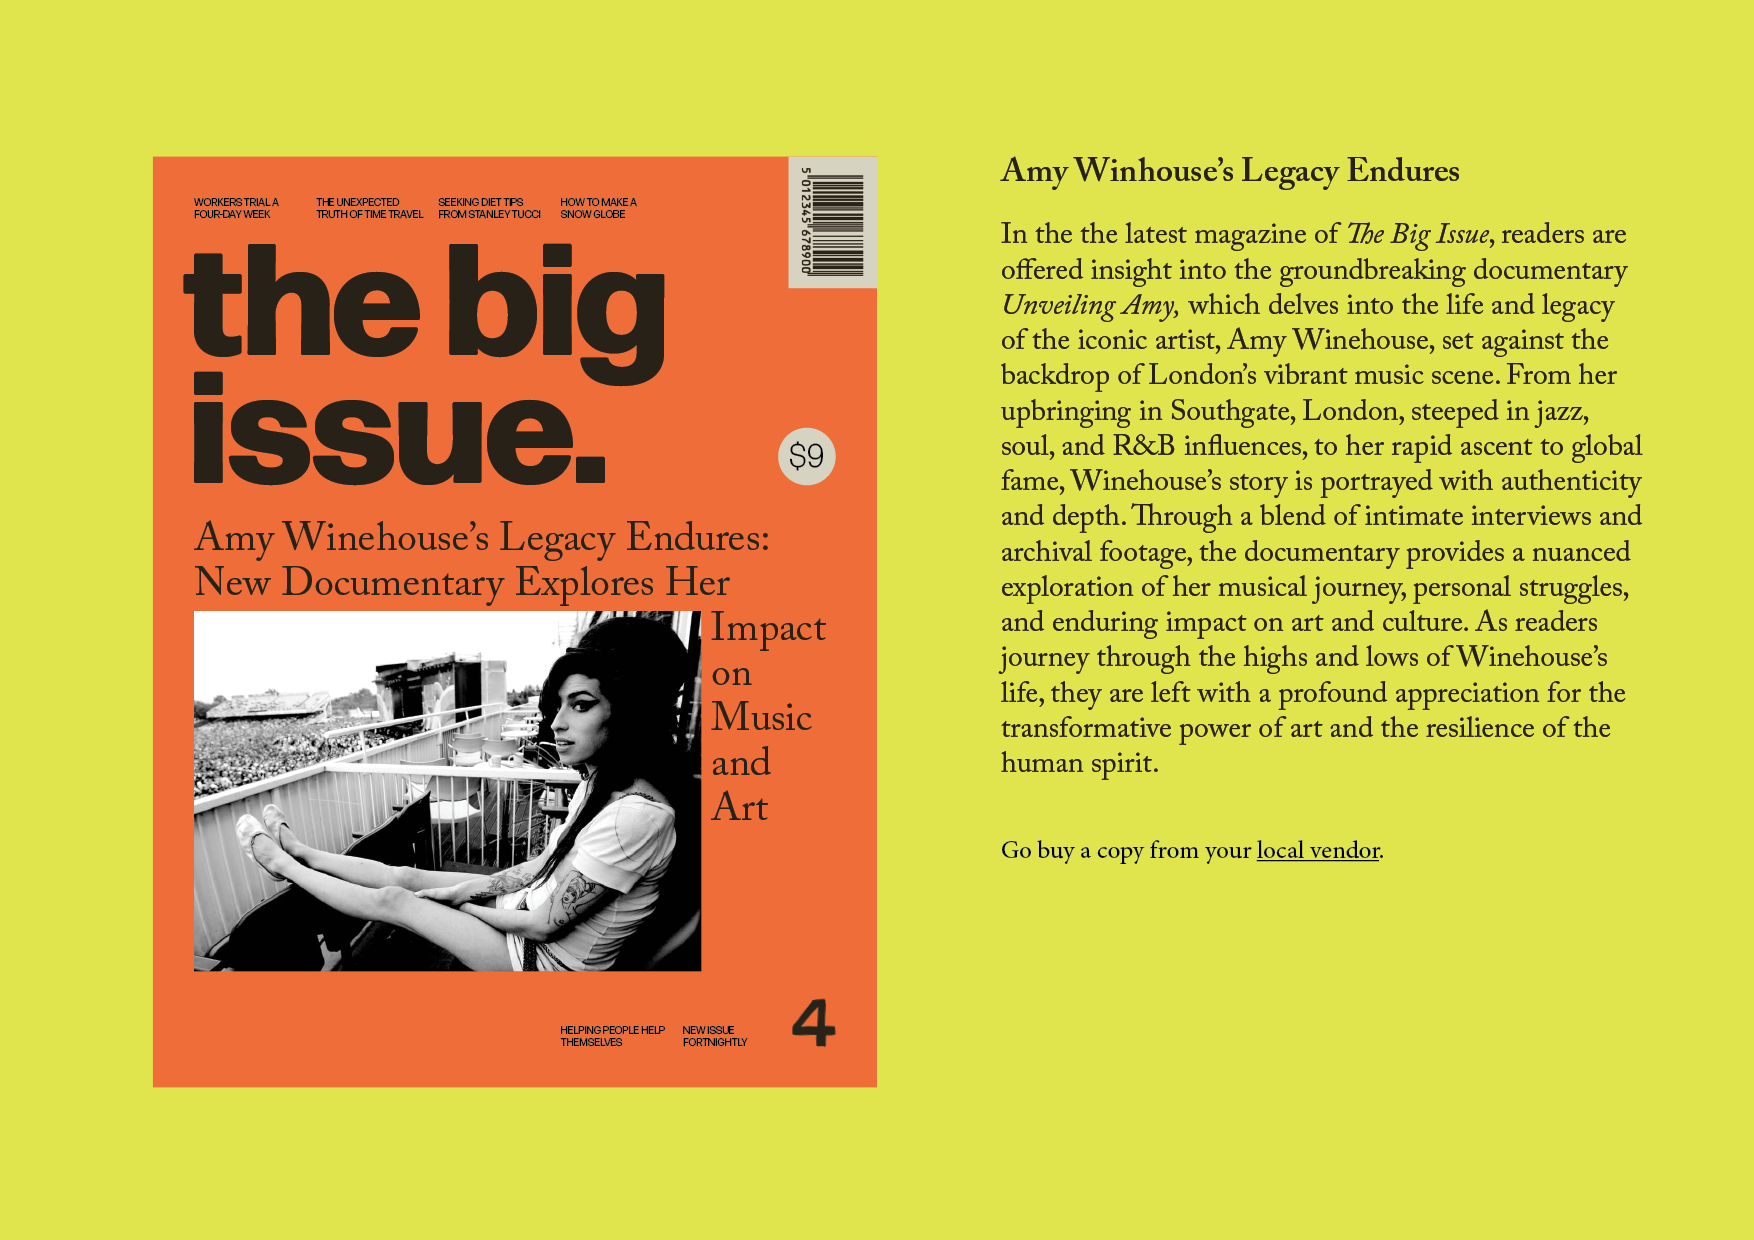
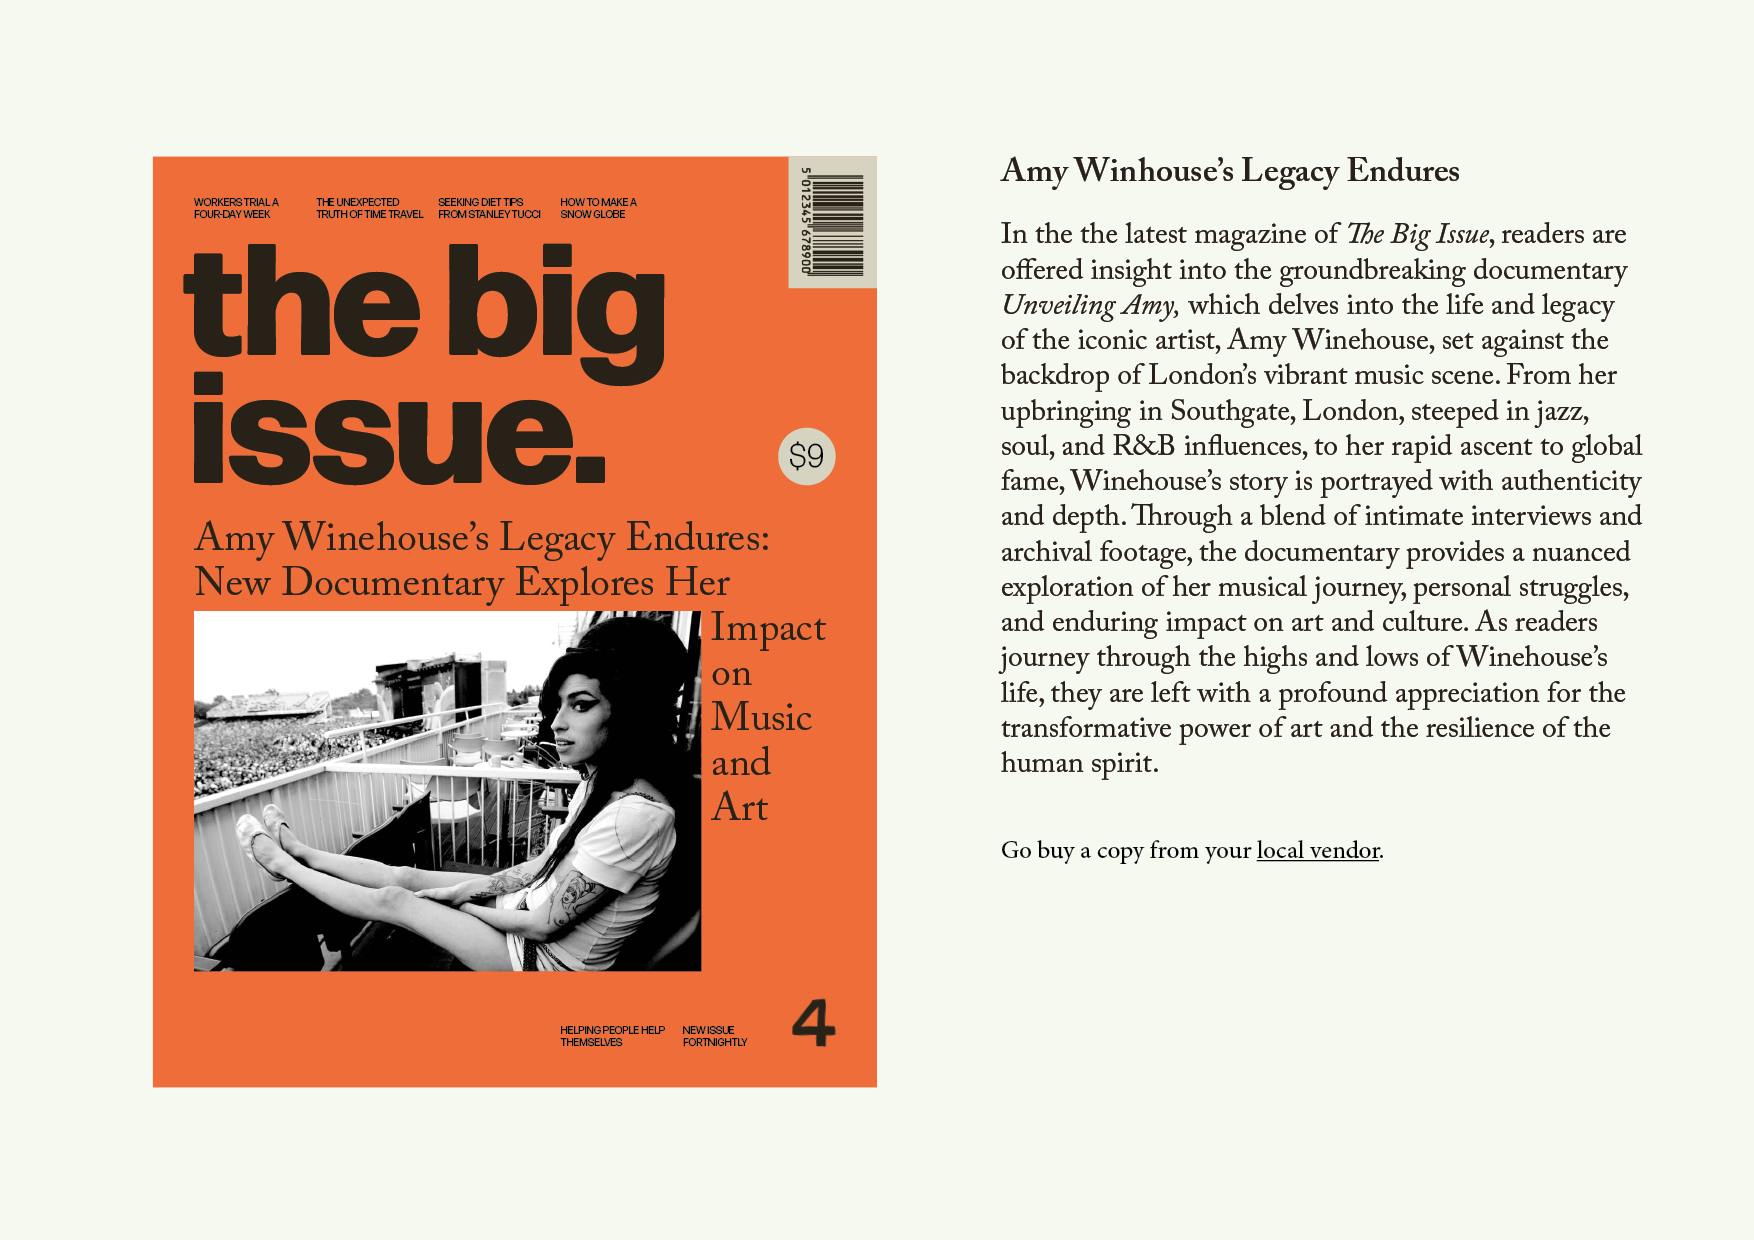
Add files via upload

diff --git a/index.html b/index.html
@@ -4,14 +4,14 @@
 <meta charset="UTF-8">
 <meta name="viewport" content="width=device-width, initial-scale=1.0">
 <title>The Big Issue</title>
-<link rel="icon" type="text/css" href="Favicon/TBIFavicon.png">
+<link rel="icon" type="text/css" href="Favicon/TBIFaviconWhite.png">
 
 
 <style>
    
    /* Style to change background color */
     html, body {
-        background-color: rgb(138, 183, 226);
+        background-color: rgb(245,250,240);
         margin: 0;
         padding-bottom:0;
         cursor:url("Cursor/Circle.png"), auto;
@@ -91,10 +91,10 @@
     /* Style for the large square button */
     .large-button {
         width: 100%; /* Set a percentage width for the buttons */
-        background-color: rgb(115, 193, 105); /* Initial background color */
+        background-color: rgb(245,250,240); /* Initial background color */
         color: rgb(40, 34, 24); /* Text color */
         text-align: center; /* Center-align text */
-        padding: 5.265% 0; /* Add padding to the button */
+        padding: 5.32% 0; /* Add padding to the button */
         transition: background-color 0.9s; /* Smooth transition for background color change */
         box-sizing: border-box; /* Include padding in the width calculation */
         border-top: 0.036em solid rgb(40, 34, 24); /* Black border line at the top */
@@ -106,16 +106,16 @@
 
     /* Change button color on hover */
     .large-button:hover {
-        background-color: rgb(240, 109, 57); /* New background color on hover */
+        background-color: rgb(138, 183, 226); /* New background color on hover */
     }
 
     /* Style for the second large square button */
     .large-button2 {
         width: 100%; /* Set a percentage width for the buttons */
-        background-color: rgb(115, 193, 105); /* Initial background color */
+        background-color: rgb(245,250,240); /* Initial background color */
         color: rgb(40, 34, 24); /* Text color */
         text-align: center; /* Center-align text */
-        padding: 5.265% 0; /* Add padding to the button */
+        padding: 5.32% 0; /* Add padding to the button */
         transition: background-color 0.9s; /* Smooth transition for background color change */
         box-sizing: border-box; /* Include padding in the width calculation */
         border-bottom: 0.036em solid rgb(40, 34, 24); /* Black border line at the top */;
@@ -126,16 +126,16 @@
 
     /* Change button color on hover */
     .large-button2:hover {
-        background-color: rgb(240, 109, 57); /* New background color on hover */
+        background-color: rgb(225, 229, 77); /* New background color on hover */
     }
 
     /* Style for the large square button */
     .large-button3 {
         width: 100%; /* Set a percentage width for the buttons */
-        background-color: rgb(115, 193, 105); /* Initial background color */
+        background-color: rgb(245,250,240); /* Initial background color */
         color: rgb(40, 34, 24); /* Text color */
         text-align: center; /* Center-align text */
-        padding: 5.265% 0; /* Add padding to the button */
+        padding: 5.32% 0; /* Add padding to the button */
         transition: background-color 0.9s; /* Smooth transition for background color change */
         box-sizing: border-box; /* Include padding in the width calculation */
         border-bottom: 0.036em solid rgb(40, 34, 24); /* Black border line at the top */
@@ -146,16 +146,16 @@
 
     /* Change button color on hover */
     .large-button3:hover {
-        background-color: rgb(240, 109, 57); /* New background color on hover */
+        background-color: rgb(115, 193, 105); /* New background color on hover */
     }
 
    /* Style for the large square button */
    .large-button4 {
         width: 100%; /* Set a percentage width for the buttons */
-        background-color: rgb(115, 193, 105); /* Initial background color */
+        background-color: rgb(245,250,240); /* Initial background color */
         color: rgb(40, 34, 24); /* Text color */
         text-align: center; /* Center-align text */
-        padding: 5.265% 0; /* Add padding to the button */
+        padding: 5.32% 0; /* Add padding to the button */
         transition: background-color 0.9s; /* Smooth transition for background color change */
         box-sizing: border-box; /* Include padding in the width calculation */
         border-bottom: 0.036em solid rgb(40, 34, 24); /* Black border line at the top */

diff --git a/contribute.html b/contribute.html
@@ -4,14 +4,14 @@
 <meta charset="UTF-8">
 <meta name="viewport" content="width=device-width, initial-scale=1.0">
 <title>Contribute</title>
-<link rel="icon" type="text/css" href="Favicon/TBIFaviconOrange.png">
+<link rel="icon" type="text/css" href="Favicon/TBIFaviconWhite.png">
 
 
 <style>
    
    /* Style to change background color */
     html, body {
-        background-color: rgb(240, 109, 57);
+        background-color: rgb(245,250,240);
         margin: 0;
         padding-bottom:0;
         cursor:url("Cursor/Circle.png"), auto;

diff --git a/community.html b/community.html
@@ -4,14 +4,14 @@
 <meta charset="UTF-8">
 <meta name="viewport" content="width=device-width, initial-scale=1.0">
 <title>Community</title>
-<link rel="icon" type="text/css" href="Favicon/TBIFaviconOrange.png">
+<link rel="icon" type="text/css" href="Favicon/TBIFaviconWhite.png">
 
 
 <style>
    
    /* Style to change background color */
     html, body {
-        background-color: rgb(240, 109, 57);
+        background-color: rgb(245,250,240);
         margin: 0;
         padding-bottom:0;
         cursor:url("Cursor/Circle.png"), auto;

diff --git a/programs.html b/programs.html
@@ -4,14 +4,14 @@
 <meta charset="UTF-8">
 <meta name="viewport" content="width=device-width, initial-scale=1.0">
 <title>Magazines</title>
-<link rel="icon" type="text/css" href="Favicon/TBIFaviconOrange.png">
+<link rel="icon" type="text/css" href="Favicon/TBIFaviconWhite.png">
 
 
 <style>
    
    /* Style to change background color */
     html, body {
-        background-color: rgb(240, 109, 57);
+        background-color: rgb(245,250,240);
         margin: 0;
         padding-bottom:0;
         cursor:url("Cursor/Circle.png"), auto;

diff --git a/magazine.html b/magazine.html
@@ -4,14 +4,14 @@
 <meta charset="UTF-8">
 <meta name="viewport" content="width=device-width, initial-scale=1.0">
 <title>Magazine</title>
-<link rel="icon" type="text/css" href="Favicon/TBIFaviconYellow.png">
+<link rel="icon" type="text/css" href="Favicon/TBIFaviconWhite.png">
 
 
 <style>
    
    /* Style to change background color */
     html, body {
-        background-color: rgb(225, 229, 77);
+        background-color: rgb(245,250,240);
         margin: 0;
         padding-bottom:0;
         cursor:url("Cursor/Circle.png"), auto;

diff --git a/about.html b/about.html
@@ -4,14 +4,14 @@
 <meta charset="UTF-8">
 <meta name="viewport" content="width=device-width, initial-scale=1.0">
 <title>About</title>
-<link rel="icon" type="text/css" href="Favicon/TBIFaviconOrange.png">
+<link rel="icon" type="text/css" href="Favicon/TBIFaviconWhite.png">
 
 
 <style>
    
    /* Style to change background color */
     html, body {
-        background-color: rgb(240, 109, 57);
+        background-color: rgb(245,250,240);
         margin: 0;
         padding-bottom:0;
         cursor:url("Cursor/Circle.png"), auto;
